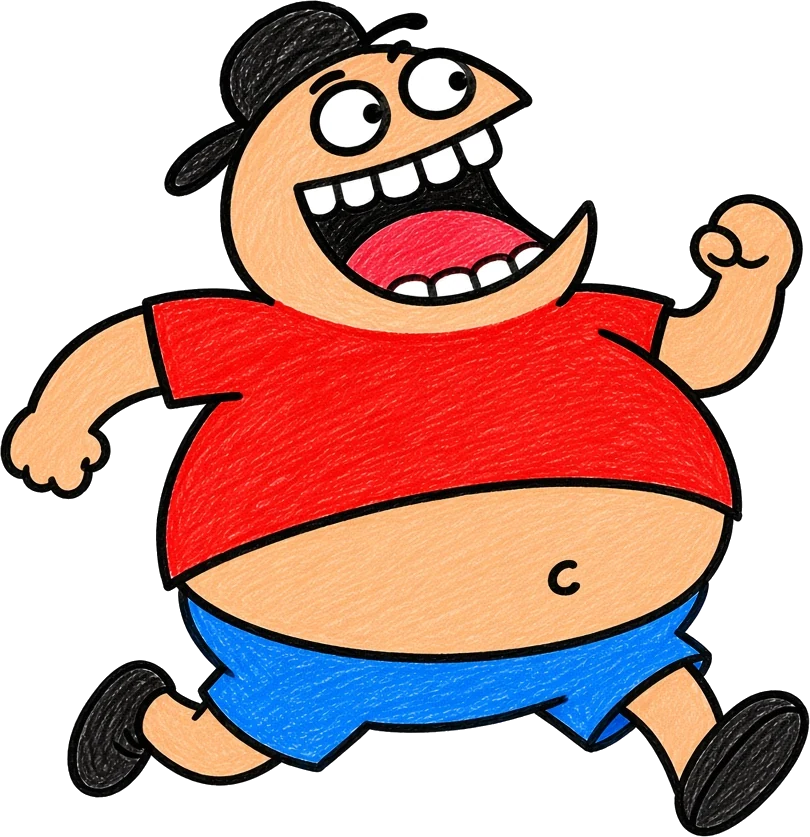
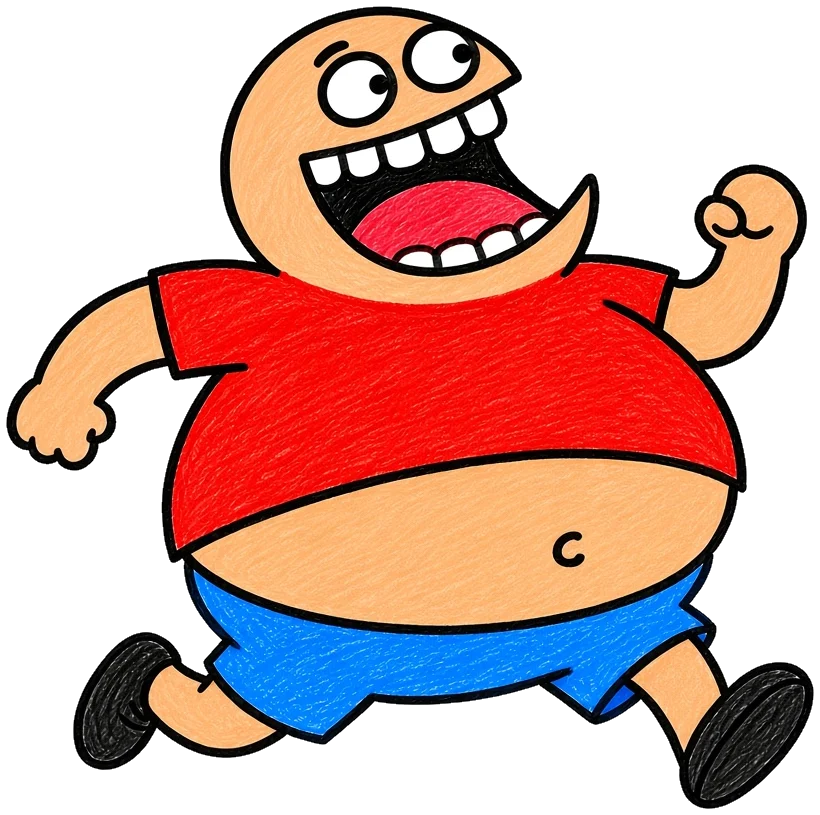
Booth: hatless poses + black cap accessory, 10 new poses, new wearables and props

diff --git a/public/booth.js b/public/booth.js
@@ -252,7 +252,8 @@ function bootBooth(M) {
         else { base = A.eyeMid; w = A.eyeDist * it.fit; }
         var s = w / it.w * (o.ds || 1), ang = A.eyeAng + (o.dr || 0);
         var oy = (it.oy || 0) * it.h * s;
-        var cx = base.x + (o.dx || 0) * A.s - Math.sin(ang) * oy, cy = base.y + (o.dy || 0) * A.s + Math.cos(ang) * oy;
+        var ox = (it.ox || 0) * A.eyeDist * (find(o.attach).flip ? -1 : 1);
+        var cx = base.x + (o.dx || 0) * A.s - Math.sin(ang) * oy + Math.cos(ang) * ox, cy = base.y + (o.dy || 0) * A.s + Math.cos(ang) * oy + Math.sin(ang) * ox;
         return { x: cx, y: cy, s: s, rot: ang, flip: false, A: A };
       }
     }
@@ -318,10 +319,19 @@ function bootBooth(M) {
   /* ---------- adding things ---------- */
   function firstPose() { for (var i = S.objs.length - 1; i >= 0; i--) if (S.objs[i].kind === 'pose') return S.objs[i]; return null; }
   function selectedPose() { var o = sel && find(sel); if (o && o.kind === 'pose') return o; if (o && o.kind === 'acc' && o.attach) return find(o.attach); return firstPose(); }
+  // Hatless poses get Fathood's black cap as a normal accessory, so any other hat
+  // simply replaces it (one item per slot). Poses that still have the cap drawn in drop it.
+  var CAP = 'acc-black-cap';
+  function capFor(p) {
+    var bald = !!itemById(p.item).bald;
+    var head = S.objs.filter(function (o) { return o.kind === 'acc' && o.attach === p.id && itemById(o.item).slot === 'head'; });
+    if (!bald) { S.objs = S.objs.filter(function (o) { return !(o.kind === 'acc' && o.attach === p.id && o.item === CAP); }); return; }
+    if (!head.length && itemById(CAP)) S.objs.push({ id: uid++, kind: 'acc', item: CAP, attach: p.id, dx: 0, dy: 0, ds: 1, dr: 0 });
+  }
   function addPose(id) {
     snapshot(); var it = itemById(id), cur = selectedPose();
-    if (cur) { var oldH = itemById(cur.item).h; cur.item = id; cur.s = cur.s * oldH / it.h; sel = cur.id; }
-    else { var o = { id: uid++, kind: 'pose', item: id, x: SIZE / 2, y: SIZE * .58, s: 780 / it.h, rot: 0, flip: false }; S.objs.push(o); sel = o.id; reorderAcc(); }
+    if (cur) { var oldH = itemById(cur.item).h, wasBald = !!itemById(cur.item).bald; cur.item = id; cur.s = cur.s * oldH / it.h; sel = cur.id; if (wasBald !== !!it.bald) capFor(cur); reorderAcc(); }
+    else { var o = { id: uid++, kind: 'pose', item: id, x: SIZE / 2, y: SIZE * .58, s: 780 / it.h, rot: 0, flip: false }; S.objs.push(o); capFor(o); sel = o.id; reorderAcc(); }
     ui(); draw();
   }
   function reorderAcc() { // keep attached accessories above their pose
@@ -432,7 +442,7 @@ function bootBooth(M) {
       var cur = selectedPose(); var g2 = el('div', 'bt-grid');
       M.poses.forEach(function (it) { g2.appendChild(thumbBtn(it.label, it.src, cur && cur.item === it.id, function () { addPose(it.id); })); }); P.appendChild(g2);
       var add = el('button', 'bt-btn ghost', 'Add another Fathood'); add.type = 'button';
-      add.addEventListener('click', function () { snapshot(); var it = M.poses[Math.floor(Math.random() * M.poses.length)]; var o = { id: uid++, kind: 'pose', item: it.id, x: SIZE * (.3 + Math.random() * .4), y: SIZE * .62, s: 560 / it.h, rot: 0, flip: Math.random() < .5 }; S.objs.push(o); sel = o.id; ui(); draw(); });
+      add.addEventListener('click', function () { snapshot(); var it = M.poses[Math.floor(Math.random() * M.poses.length)]; var o = { id: uid++, kind: 'pose', item: it.id, x: SIZE * (.3 + Math.random() * .4), y: SIZE * .62, s: 560 / it.h, rot: 0, flip: Math.random() < .5 }; S.objs.push(o); capFor(o); reorderAcc(); sel = o.id; ui(); draw(); });
       P.appendChild(add);
       P.appendChild(el('h4', null, 'Shirt colour'));
       var r1 = el('div', 'bt-row'); SHIRTS.forEach(function (c) { r1.appendChild(swatch(c, S.shirt === c, function () { snapshot(); S.shirt = c; panel(); draw(); }, c ? 'Shirt ' + c : 'Original shirt')); }); P.appendChild(r1);
@@ -494,8 +504,8 @@ function bootBooth(M) {
     S.bg = Math.random() < .8 ? { type: 'scene', id: pick(SCENE_LIST)[0] } : { type: 'color', value: pick(COLORS) };
     S.shirt = Math.random() < .5 ? null : pick(SHIRTS.slice(1)); S.shorts = Math.random() < .6 ? null : pick(SHORTS.slice(1));
     var pz = pick(M.poses); var p = { id: uid++, kind: 'pose', item: pz.id, x: SIZE * (.42 + Math.random() * .16), y: SIZE * .6, s: 760 / pz.h, rot: 0, flip: Math.random() < .3 }; S.objs.push(p);
-    var slots = {}; M.acc.slice().sort(function () { return Math.random() - .5; }).forEach(function (a) { if (Object.keys(slots).length < 2 && !slots[a.slot] && Math.random() < .6) { slots[a.slot] = 1; S.objs.push({ id: uid++, kind: 'acc', item: a.id, attach: p.id, dx: 0, dy: 0, ds: 1, dr: 0 }); } });
-    reorderAcc();
+    var slots = {}; M.acc.slice().sort(function () { return Math.random() - .5; }).forEach(function (a) { if (a.id !== CAP && Object.keys(slots).length < 2 && !slots[a.slot] && Math.random() < .6) { slots[a.slot] = 1; S.objs.push({ id: uid++, kind: 'acc', item: a.id, attach: p.id, dx: 0, dy: 0, ds: 1, dr: 0 }); } });
+    capFor(p); reorderAcc();
     var n = Math.floor(Math.random() * 3); for (var i = 0; i < n; i++) { var it = pick(M.props); var corner = [[.16, .2], [.84, .2], [.15, .8], [.85, .78]][i % 4]; S.objs.push({ id: uid++, kind: 'prop', item: it.id, x: SIZE * corner[0], y: SIZE * corner[1], s: (it.def || 260) / Math.max(it.w, it.h) * .9, rot: (Math.random() - .5) * .5, flip: Math.random() < .5 }); }
     if (Math.random() < .55) S.objs.push({ id: uid++, kind: 'text', text: pick(['HOLDING UNTIL\nWE’RE FAT', 'NO BUNDLES\nNO RUGS', 'FAT BAGS ONLY', 'RUGS FEAR HIM', 'GM FATTIES', '$FATHOOD']), font: 'bowlby', color: '#FFFFFF', stroke: '#111111', size: 88, x: SIZE / 2, y: SIZE * .13, s: 1, rot: 0, flip: false });
     ui(); draw();
@@ -576,7 +586,7 @@ function bootBooth(M) {
   [].concat(M.poses, M.acc, M.props).forEach(function (it) { M.index[it.id] = it; });
   var fontsReady = document.fonts && document.fonts.load ? Promise.all([document.fonts.load('400 40px "Bowlby One"'), document.fonts.load('700 40px "Space Grotesk"')]).catch(function () {}) : Promise.resolve();
   fontsReady.then(function () {
-    var p = M.poses[0]; S.objs.push({ id: uid++, kind: 'pose', item: p.id, x: SIZE / 2, y: SIZE * .6, s: 780 / p.h, rot: 0, flip: false });
+    var p = M.poses[0], p0 = { id: uid++, kind: 'pose', item: p.id, x: SIZE / 2, y: SIZE * .6, s: 780 / p.h, rot: 0, flip: false }; S.objs.push(p0); capFor(p0); reorderAcc();
     S.objs.push({ id: uid++, kind: 'text', text: 'HOLDING UNTIL\nWE’RE FAT', font: 'bowlby', color: '#FFFFFF', stroke: '#111111', size: 92, x: SIZE / 2, y: SIZE * .13, s: 1, rot: 0, flip: false });
     ui(); draw();
   });
